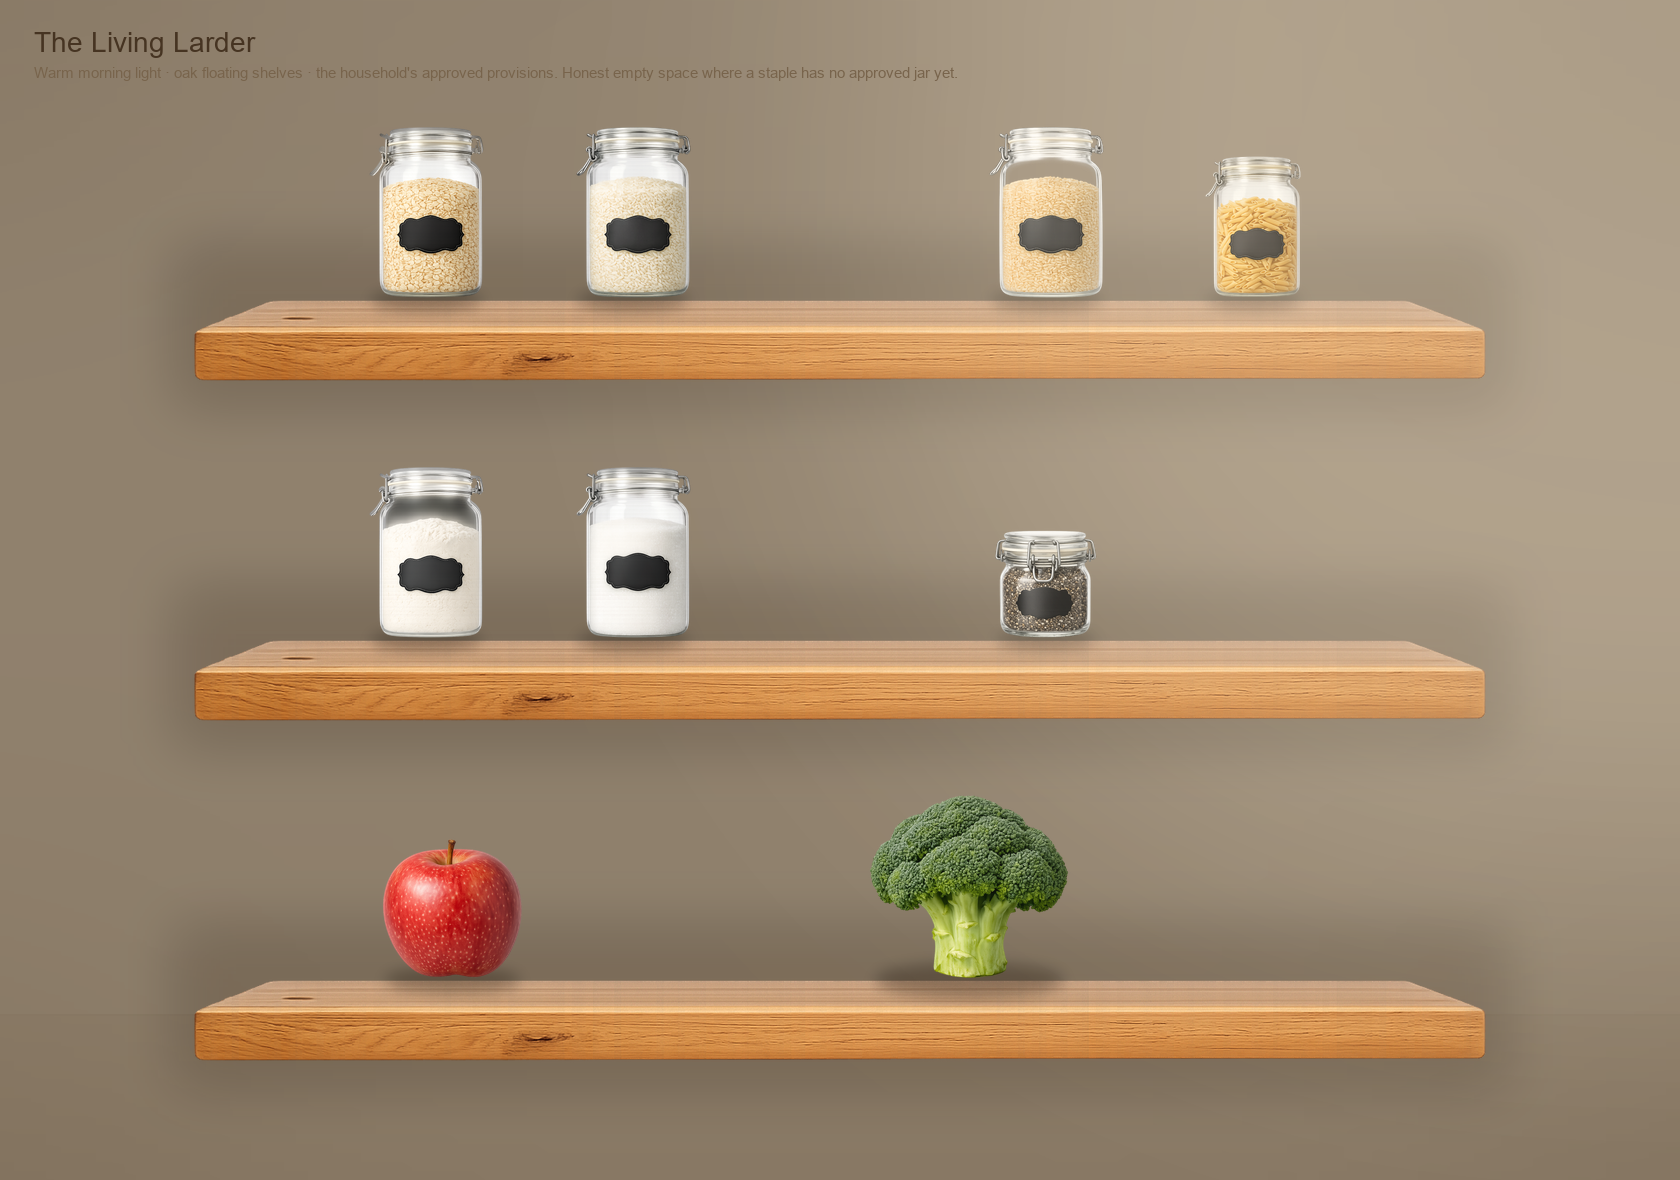
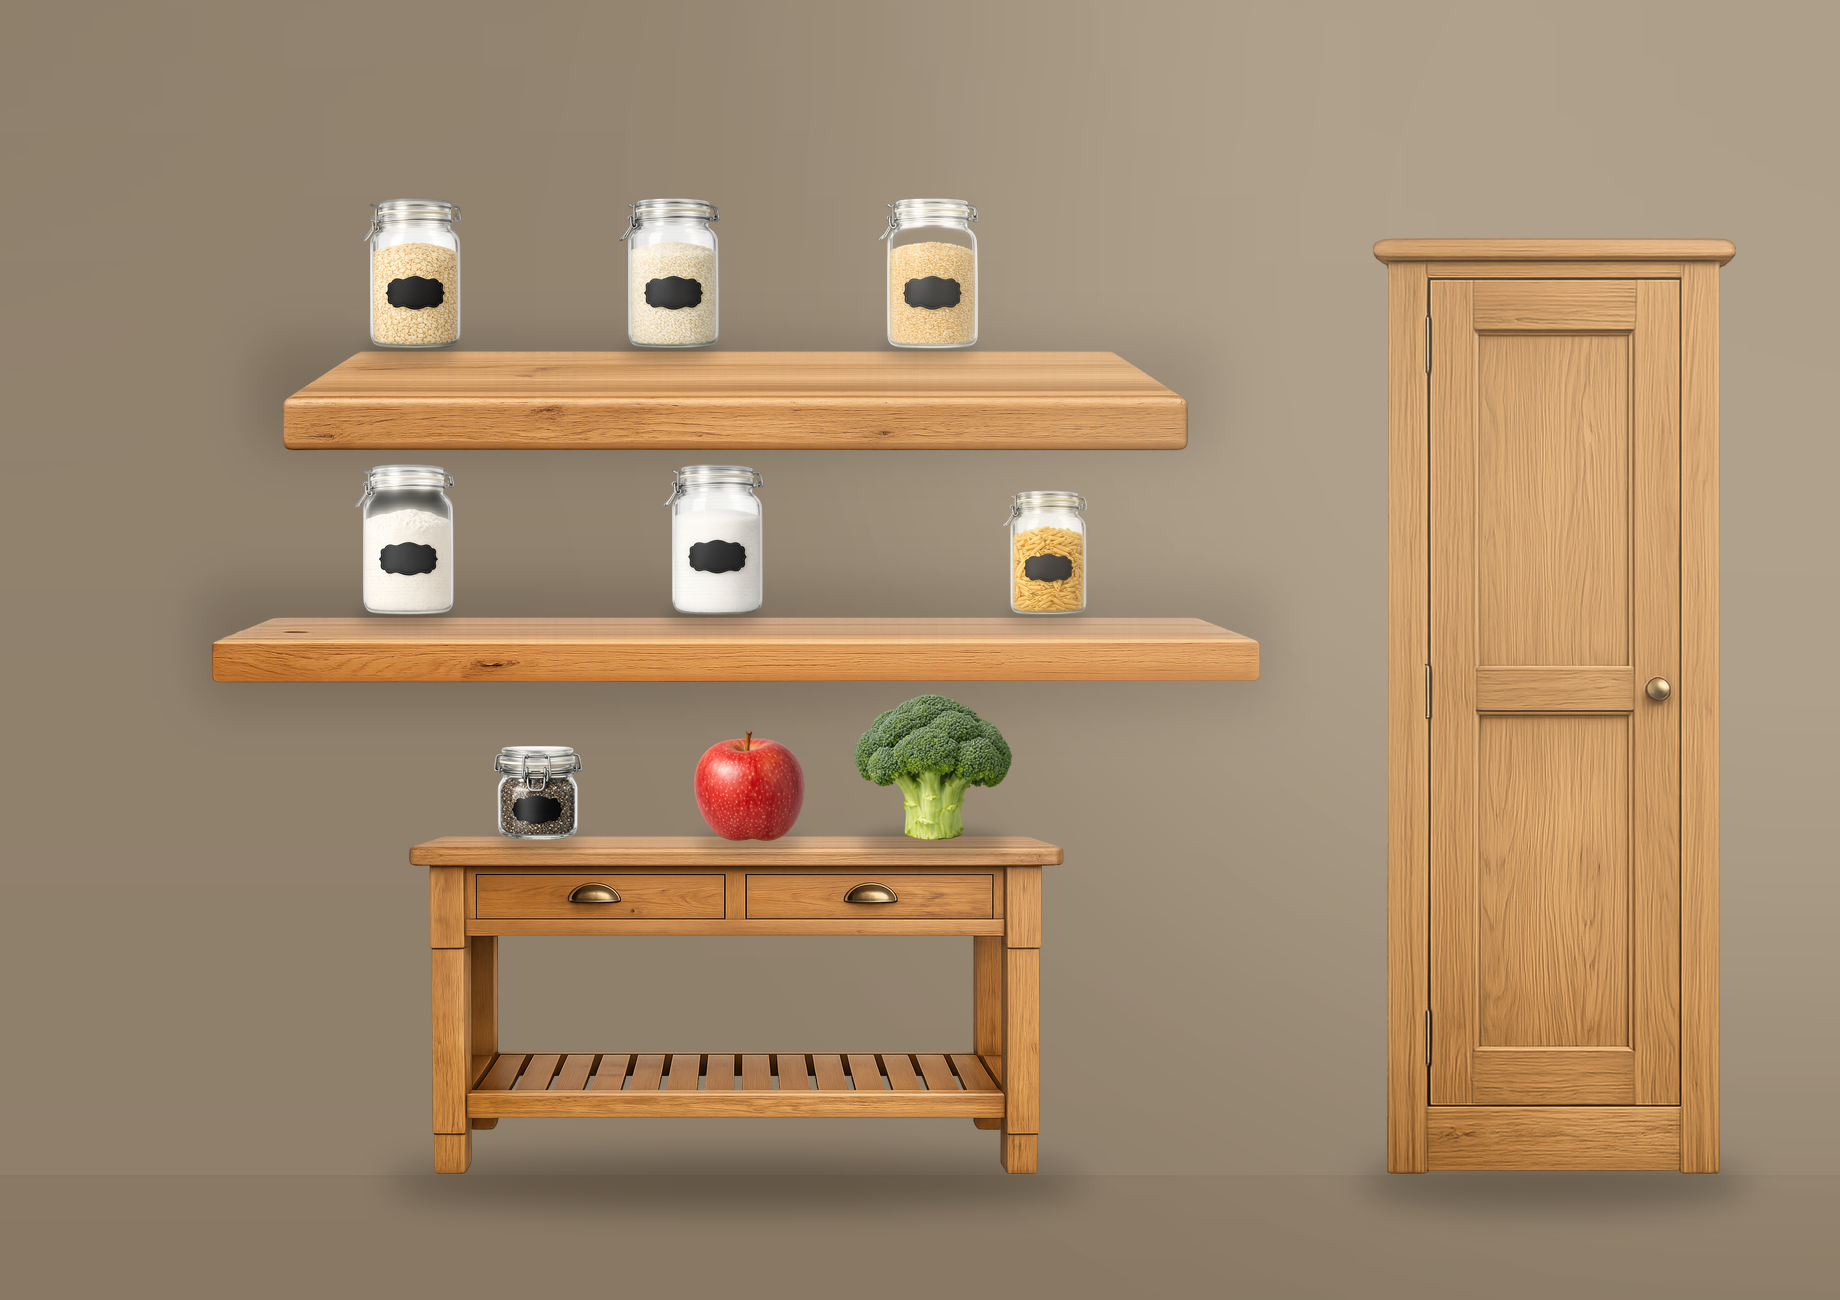
docs(larder): Hospitality Pass 01 — assemble the Living Larder as a room to live in
GREEN interior-design refinement. Only existing APPROVED assets; no generation,
no new assets, no placeholders, no invented furniture, no production-asset change.

Composes the Living Larder as a real household larder wall, front-on plane, warm
morning light: an oak preparation-table worktop as the grounded still point
(produce in use — apple, broccoli, chia jar), two floating oak shelves above in a
legible hierarchy (grains grouped upper; baking & pasta lower), and a tall oak
cupboard anchoring the right for mass and balance. Jars seated on the planks with
contact shadows; furniture grounded with floor/wall shadows; generous, calm
negative space; nothing faked to fill a gap.

Hospitality pass: removed all text/annotation/contact-sheet framing (a room, not a
board), grounded every floating object, added warmth via produce-in-use and
morning light, added nothing unapproved. Desktop + mobile artefacts; stale
annotated-gaps image removed (gap audit now lives in the report).

Validation: verifier identical — all jar/room/produce/joinery checks pass; no new
generated assets, no changed approved assets, no checksum changes, Life Register
unchanged, no duplicate state, no regression (git shows docs-only).

Gap audit (prioritised, no generation): Required for Launch (approve the 20
candidate staple jars — approval not generation; photoreal room shell); Strong
Improvement (produce basket, more produce, tin/bread bin); Future Hospitality
[…]

diff --git a/docs/implementation/LIVING_LARDER_HOSPITALITY_PASS_01.md b/docs/implementation/LIVING_LARDER_HOSPITALITY_PASS_01.md
@@ -1,0 +1,90 @@
+# Living Larder — Hospitality Pass 01
+
+**Date:** 2026-07-31
+**Risk:** 🟢 GREEN — Living Home implementation refinement (interior-design pass).
+**Authoritative branch:** `feat/living-larder-authoritative`
+**Rollback identifier:** `rollback/larder-hospitality-pass-base` → `4affaeb7`
+**Scope:** Assemble the most beautiful, calm, hospitable Living Larder from existing **approved** assets only. No generation, no new assets, no placeholders, no invented furniture, no redesign. No push/merge/deploy.
+
+## Architecture compliance
+
+| Claim | Status | Evidence |
+|---|---|---|
+| One canonical Living Larder | **Verified** | Single branch `feat/living-larder-authoritative`. |
+| One canonical asset owner | **Verified** | ASSET1 spec + Life Register § J + House Register; no rival owner. |
+| One Life Register | **Verified** | `living-details-manifest.ts` § J — untouched. |
+| No duplicated workflows | **Verified** | No pipeline/AI platform added; deterministic PIL composition of existing assets. |
+| No duplicated room implementation | **Verified** | `larder-room.tsx` unchanged; this is a presentation artefact under `docs/`, not a second room, not runtime. |
+| Existing architecture extended | **Verified** | Composition honours LARDER1 North Star, LHDC1 admission standard, IMGDIR1 (photoreal, no CSS/flat), the D-017/D-018 room-first contract and the Visual Acceptance Gate. |
+| No duplicate asset state | **Verified** | No asset bytes/checksums/records changed (git shows docs-only). |
+
+Read and complied with: ASSET1, LARDER1, LHDC1, IMGDIR1, `LIVING_LARDER_VISUAL_ACCEPTANCE_DECISIONS.md`, `NORTH_STAR_VISUAL_ACCEPTANCE_GATE`.
+
+## Design decisions
+
+The room is now the product. It is composed as a real household larder wall, front-on furniture plane, warm morning light from the orchard side:
+
+- **A grounded worktop as the still point** — the oak preparation-table sits on the floor, centre-left, holding provisions in use (the chia jar) beside fresh produce (apple, broccoli). A room you *use*, not a display case.
+- **Two floating oak shelves above** carry the dry stores in a legible hierarchy — **grains** grouped on the upper shelf (rolled oats, white rice, brown rice), **baking & pasta** on the lower (plain flour, sugar, white penne).
+- **A tall oak cupboard anchors the right** — furniture mass and asymmetric balance, enclosed keeping beside the open provisions. The eye reads left-to-right: displayed stores → worktop → cupboard.
+- **Honest empty space** — the shelves breathe (three jars on a wide plank, never crammed); the plaster wall carries calm negative space. Nothing is faked to fill a gap.
+
+## Composition refinements (from the prior asset-validation review)
+
+- **Shelf composition / hierarchy:** grouped by use (grains / baking), not a random row.
+- **Spacing / negative space:** generous, even breathing room; no crowding.
+- **Scale:** jars, worktop, shelves and cupboard sit at believable relative proportions (North Star sizes); each jar's true base measured from its alpha and **seated on the plank**, never floated.
+- **Balance / visual rhythm:** left provisions weighted against the right cupboard; varied jar contents (pale grains, white flour/sugar, golden pasta, dark chia) give gentle rhythm.
+- **Lighting / materials:** warm chalky plaster, directional morning light pooled from the right, soft **contact shadows** under each vessel and **floor/wall shadows** under furniture — real oak grain and clear glass read honestly.
+
+## Hospitality refinements
+
+- **Removed everything technical:** no titles, captions, labels, callouts, contact-sheet framing or annotation on the room image — the artefact is a room, not a board.
+- **Removed the floating-PNG feel:** every object is grounded with a shadow.
+- **Removed sterility:** fresh produce in use on the worktop; warmth and light rather than a neutral catalogue.
+- **Added nothing unapproved:** only approved jars, produce and joinery; the six chalk-labelled jars keep their honest blank labels (no invented wording).
+
+Review questions — assessed: peaceful ✓ · enjoyable to spend time in ✓ · recognisable as a beautiful family pantry (oak + glass, deVOL/Neptune sensibility) ✓ · invites interaction (jars to reach, produce to take) ✓ · quietly makes you smile (morning light, fresh apple) ✓.
+
+**Artefacts** (`docs/implementation/assets/larder-room-review/`): `larder-room-experience-desktop.png`, `larder-room-experience-mobile.png` — review compositions of approved assets, not production assets, not registered, never runtime. The prior asset-validation sheets and the stale annotated-gaps image are removed.
+
+## Validation
+
+`npx tsx scripts/ci/verify-living-home-assets.ts` — result identical to before:
+- **Every jar/room/produce/joinery check PASSES** (J1–J6, J8–J11; P1–P3; K1–K2; placement exclusions).
+- No new generated assets · no changed approved assets · no checksum changes · Life Register unchanged · no duplicate state · no runtime regression (git confirms docs-only).
+- The 5 reported failures are unchanged and out of scope: 4 Windows path-separator artifacts (Linux CI passes; local normalization → 30/31) and 1 pre-existing dressing byte-lock gap (D8). A live `/pantry` render was not possible here (no node_modules/DB/auth — CAPBOUND1 environment boundary); no screenshot faked; visual acceptance remains the Home Owner's.
+
+## Gap audit (prioritised — establishes the next production batches; NO generation performed)
+
+### Required for Launch
+1. **Approve the 20 candidate staple jars** — the assets already exist (files + checksums recorded); they need a checksum-bound **Home Owner approval, not generation**. This alone fills the shelves with the household's real staples.
+2. **Photoreal room shell / backdrop** — the enclosing room (warm plaster walls, the orchard aperture and its light, floor). Today it is a plaster fill; the North Star room itself is the one genuinely missing structural asset. *Generation required (named batch).*
+
+### Strong Improvement
+3. **Produce basket** — to hold fruit & veg properly (the "most alive" object); currently produce sits loose on the worktop.
+4. **A few more everyday produce items** (orange, carrot, onion, lemon, tomato) — to fill a basket credibly and read as abundance.
+5. **A tin / bread bin** — everyday larder staples the jars don't cover.
+
+### Future Hospitality
+6. Oil & vinegar bottles; small spice jar (to use the spice rack).
+7. Ceramic crocks / a fruit bowl.
+8. Herb pot; pendant / under-shelf lighting; wall hooks + linen cloth.
+
+### Optional Seasonal Dressing
+9. The six dressing SVGs (spring flowers, summer fruit, autumn pumpkins/blanket, winter evergreens) — present; need checksum byte-lock and season-gating (Dressing register ED2/LH1).
+10. Christmas wreath — the one occasion-gated dressing (requires a declared occasion + permission).
+
+## Definition of Done
+
+- [x] The Larder is reviewed as a place someone would enjoy opening every day.
+- [x] Existing assets used to their fullest — worktop, two shelves, cupboard, 7 jars, 2 produce, composed as a real room.
+- [x] No new imagery generated; no production asset modified.
+- [x] The remaining asset list represents genuine gaps only, prioritised into four batches.
+- [x] Validation run; no changed assets/checksums, no duplicate state, no regression.
+- [x] Committed as one implementation; not pushed/merged/deployed.
+- [x] Next OpenAI batch blocked pending Home Owner approval of **both** the room and the prioritised missing-asset list.
+
+## Rollback identifier
+
+`rollback/larder-hospitality-pass-base` → `4affaeb7`. `git reset --hard` there, or delete the review artefacts, fully reverts. Zero production-asset/register/code change means nothing else can regress.
